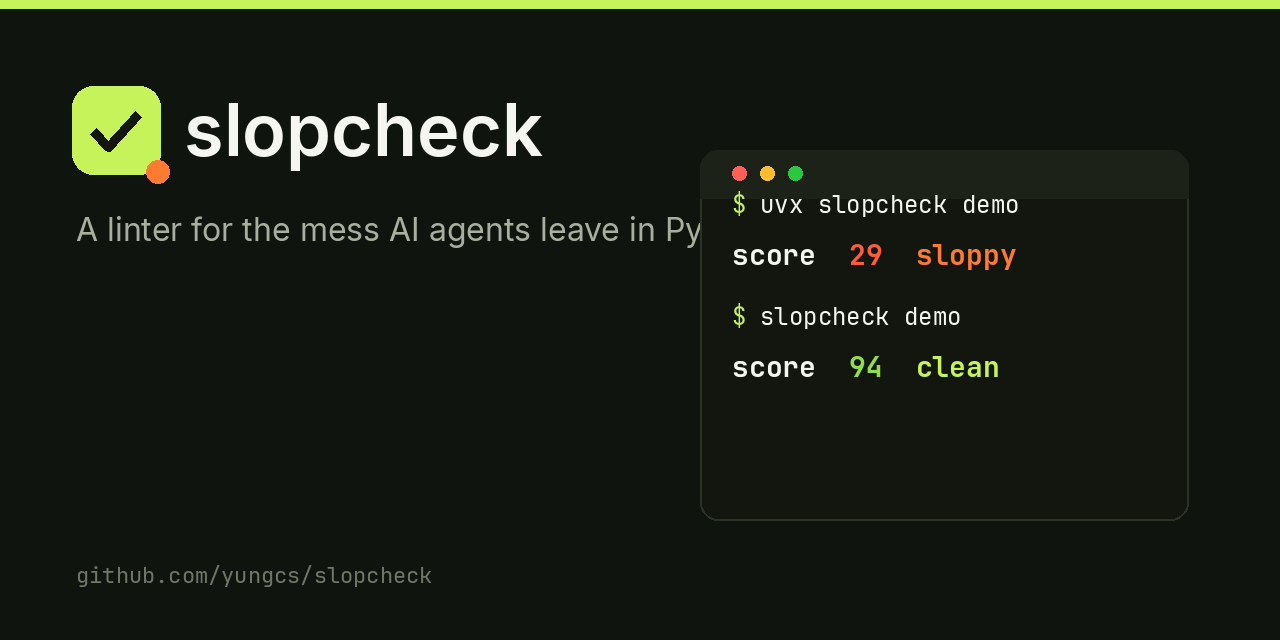
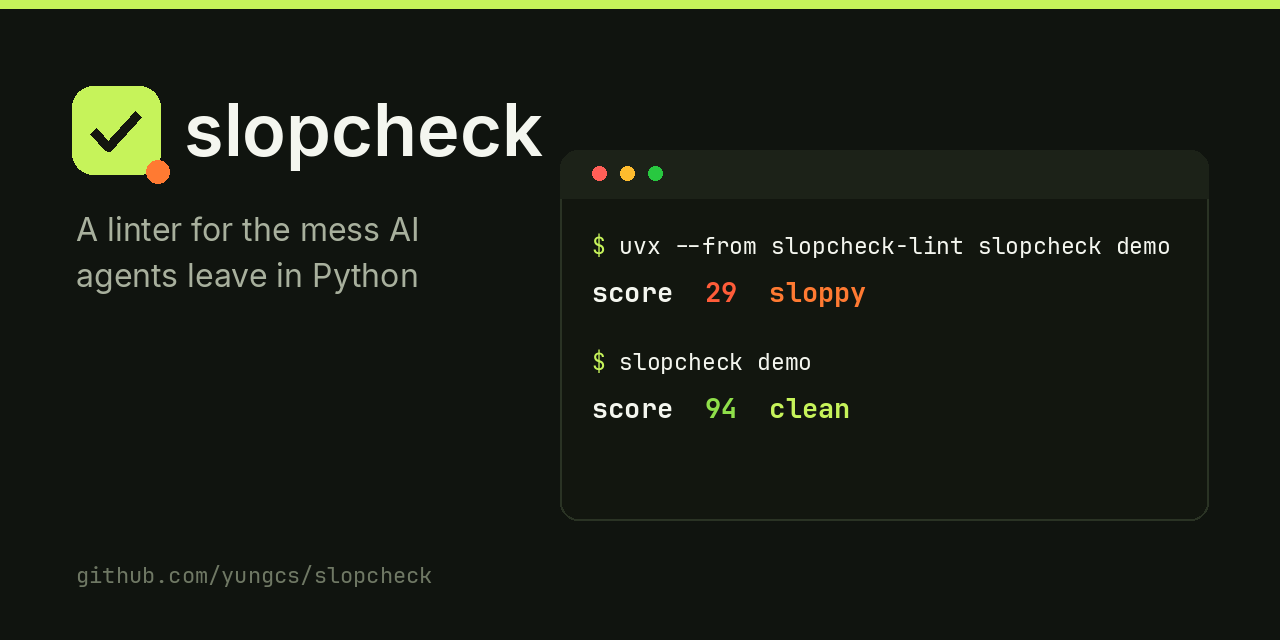
Show the slopcheck-lint install command in the launch visuals
The GIF and the social card now run `uvx --from slopcheck-lint
slopcheck demo`, which is what installs this project from PyPI.

- GIF: mono 26 on the same 840x720 canvas so the longer command fits on
  one line; wrap long rows at word boundaries instead of mid-word; type
  long commands two characters per frame to keep the loop near 11 s
- Social card: widen the terminal card, size its font to fit the
  command, keep rows clear of the title bar, and wrap the tagline so it
  no longer runs under the card
- README alt text matches the GIF

diff --git a/scripts/render_launch.py b/scripts/render_launch.py
@@ -29,6 +29,7 @@ SANS_MED = Path("/usr/share/fonts/truetype/macos/Inter-Medium.ttf")
 SANS_SEMI = Path("/usr/share/fonts/truetype/macos/Inter-SemiBold.ttf")
 TAGLINE = "A linter for the mess AI agents leave in Python"
 REPO = "github.com/yungcs/slopcheck"
+RUN_DEMO = "uvx --from slopcheck-lint slopcheck demo"
 
 INK = "#14160f"
 PAPER = "#f3f0e6"
@@ -119,31 +120,52 @@ def hero(path: Path, *, dark: bool) -> None:
     image.save(path, "PNG", optimize=True)
 
 
+def _wrap_words(draw: ImageDraw.ImageDraw, text: str, face: ImageFont.FreeTypeFont, limit: int) -> list[str]:
+    lines: list[str] = []
+    current = ""
+    for word in text.split():
+        candidate = f"{current} {word}".strip()
+        if current and text_width(draw, candidate, face) > limit:
+            lines.append(current)
+            current = word
+        else:
+            current = candidate
+    if current:
+        lines.append(current)
+    return lines
+
+
 def social(path: Path) -> None:
     image = Image.new("RGB", (1280, 640), NIGHT)
     draw = ImageDraw.Draw(image)
     draw.rectangle((0, 0, 1280, 8), fill=LIME)
     draw_mark(draw, (72, 86), 88, plate=LIME, tick=INK)
     draw.text((184, 86), "slopcheck", font=font(SANS_SEMI, 72), fill="#f4f6ef")
-    draw.text((76, 210), TAGLINE, font=font(SANS, 32), fill=MUTED_DARK)
+    left, right, top, bottom = 560, 1208, 150, 520
+    tagline = font(SANS, 32)
+    for index, line in enumerate(_wrap_words(draw, TAGLINE, tagline, left - 76 - 40)):
+        draw.text((76, 210 + index * 46), line, font=tagline, fill=MUTED_DARK)
     draw.text((76, 560), REPO, font=font(MONO, 22), fill="#6f7864")
-    card = (700, 150, 1188, 520)
-    draw.rounded_rectangle(card, radius=18, fill=TERM, outline="#2a3324", width=2)
-    draw.rounded_rectangle((700, 150, 1188, 198), radius=18, fill=TERM_BAR)
-    draw.rectangle((700, 180, 1188, 198), fill=TERM_BAR)
+    draw.rounded_rectangle((left, top, right, bottom), radius=18, fill=TERM, outline="#2a3324", width=2)
+    draw.rounded_rectangle((left, top, right, top + 48), radius=18, fill=TERM_BAR)
+    draw.rectangle((left, top + 30, right, top + 48), fill=TERM_BAR)
     for index, color in enumerate(("#ff5f57", "#febc2e", "#28c840")):
-        cx = 732 + index * 28
-        draw.ellipse((cx, 166, cx + 14, 180), fill=color)
-    body = font(MONO, 24)
-    bold = font(MONO_BOLD, 28)
+        cx = left + 32 + index * 28
+        draw.ellipse((cx, top + 16, cx + 14, top + 30), fill=color)
+    inset = 32
+    size = 24
+    while size > 16 and font(MONO, size).getlength(f"$ {RUN_DEMO}") > right - left - 2 * inset:
+        size -= 1
+    body = font(MONO, size)
+    bold = font(MONO_BOLD, size + 4)
     rows = [
-        (188, [("$ ", LIME), ("uvx slopcheck demo", "#f4f6ef")]),
-        (236, [("score  ", "#f4f6ef"), ("29", RED), ("  sloppy", EMBER)]),
-        (300, [("$ ", LIME), ("slopcheck demo", "#f4f6ef")]),
-        (348, [("score  ", "#f4f6ef"), ("94", GREEN), ("  clean", LIME)]),
+        (top + 80, [("$ ", LIME), (RUN_DEMO, "#f4f6ef")]),
+        (top + 124, [("score  ", "#f4f6ef"), ("29", RED), ("  sloppy", EMBER)]),
+        (top + 196, [("$ ", LIME), ("slopcheck demo", "#f4f6ef")]),
+        (top + 240, [("score  ", "#f4f6ef"), ("94", GREEN), ("  clean", LIME)]),
     ]
     for y, spans in rows:
-        x = 732
+        x = left + inset
         face = bold if any(part in {"29", "94"} for part, _color in spans) else body
         for part, color in spans:
             draw.text((x, y), part, font=face, fill=color)
@@ -391,7 +413,7 @@ def _dirty_rows(report: object) -> list[Row]:
             picked.append(item)
             seen.add(item.rule_id)
     rows: list[Row] = [
-        [("$ ", LIME), ("uvx slopcheck demo", "#f4f6ef")],
+        [("$ ", LIME), (RUN_DEMO, "#f4f6ef")],
         _plain(f"slopcheck  {report.version}", "#f4f6ef"),
         _plain(_header(report)[1], MUTED_DARK),
         *_score_rows(report),
@@ -435,24 +457,36 @@ def _wrap(row: Row, face: ImageFont.FreeTypeFont, limit: int) -> list[Row]:
             flat.append((char, color))
     if not flat:
         return [row]
-    lines: list[Row] = []
-    current: Row = []
+    pieces: list[list[tuple[str, str]]] = []
+    current: list[tuple[str, str]] = []
     width = 0
     for char, color in flat:
         advance = math.ceil(face.getlength(char))
         if width + advance > limit and current:
-            lines.append(current)
-            current = []
-            width = 0
-            if char == " ":
+            spaces = [index for index, (value, _color) in enumerate(current) if value == " "]
+            cut = spaces[-1] if spaces and any(v != " " for v, _c in current[: spaces[-1]]) else None
+            if cut is not None and char != " ":
+                pieces.append(current[:cut])
+                current = current[cut + 1 :]
+            else:
+                pieces.append(current)
+                current = []
+            width = sum(math.ceil(face.getlength(value)) for value, _color in current)
+            if char == " " and not current:
                 continue
-        if current and current[-1][1] == color:
-            current[-1] = (current[-1][0] + char, color)
-        else:
-            current.append((char, color))
+        current.append((char, color))
         width += advance
     if current:
-        lines.append(current)
+        pieces.append(current)
+    lines: list[Row] = []
+    for piece in pieces:
+        line: Row = []
+        for char, color in piece:
+            if line and line[-1][1] == color:
+                line[-1] = (line[-1][0] + char, color)
+            else:
+                line.append((char, color))
+        lines.append(line)
     return lines or [[]]
 
 
@@ -478,7 +512,7 @@ def _frame(
     title_face = font(SANS_MED, 18)
     draw.text(((width - text_width(draw, title, title_face)) // 2, 16), title, font=title_face, fill=MUTED_DARK)
     y = 78
-    limit = width - 112
+    limit = width - 56
     for row in rows:
         face = bold if any(part.strip() in {"29", "94"} for part, _color in row) else body
         wrapped = _wrap(row, face, limit)
@@ -495,7 +529,9 @@ def _frame(
 
 def _type_rows(command: str) -> list[list[Row]]:
     frames: list[list[Row]] = []
-    for count in range(1, len(command) + 1):
+    step = 2 if len(command) > 24 else 1
+    for count in range(step, len(command) + step, step):
+        count = min(count, len(command))
         frames.append([[("$ ", LIME), (command[:count], "#f4f6ef"), ("█", LIME)]])
     frames.append([[("$ ", LIME), (command, "#f4f6ef")]])
     return frames
@@ -511,12 +547,12 @@ def _reveal(base: list[Row]) -> list[list[Row]]:
 
 
 def gif(path: Path, dirty: object, clean: object) -> None:
-    body = font(MONO, 30)
-    bold = font(MONO_BOLD, 42)
+    body = font(MONO, 26)
+    bold = font(MONO_BOLD, 38)
     width, height = 840, 720
-    body_step, score_step = 44, 58
+    body_step, score_step = 40, 54
     frames: list[Image.Image] = []
-    typed = [_type_rows("uvx slopcheck demo"), _type_rows("slopcheck prompt demo"), _type_rows("slopcheck demo")]
+    typed = [_type_rows(RUN_DEMO), _type_rows("slopcheck prompt demo"), _type_rows("slopcheck demo")]
     reveals = [
         _reveal(_dirty_rows(dirty)),
         _reveal(_prompt_rows(dirty)),

diff --git a/README.zh-CN.md b/README.zh-CN.md
@@ -18,7 +18,7 @@
 <p align="center"><strong>一条命令。分数 0 到 100。越高越干净。</strong></p>
 
 <p align="center">
-  <img src="docs/demo.gif" alt="slopcheck demo 得到 29 分，接着是修复提示，修完后得到 94 分" width="720">
+  <img src="docs/demo.gif" alt="uvx --from slopcheck-lint slopcheck demo 得到 29 分，接着是修复提示，修完后得到 94 分" width="720">
 </p>
 
 给 AI 编程代理留在 Python 里的污泥做体检。Ruff 和 Pylint 不抓这些：裸 `except`、`import requets`、旁边还留着原函数的 `_v2`、请求路径上忘删的 `breakpoint()`。slopcheck 标出这些残留，并把发现交给 Claude Code、Codex 或 Cursor。

diff --git a/README.md b/README.md
@@ -18,7 +18,7 @@
 <p align="center"><strong>One command. A score from 0 to 100. Higher is cleaner.</strong></p>
 
 <p align="center">
-  <img src="docs/demo.gif" alt="slopcheck demo scores 29, slopcheck prompt, then a fixed tree scores 94" width="720">
+  <img src="docs/demo.gif" alt="uvx --from slopcheck-lint slopcheck demo scores 29, slopcheck prompt, then a fixed tree scores 94" width="720">
 </p>
 
 Ruff and Pylint will not catch this. Agents still ship it: a bare `except`, `import requets`, a `_v2` twin, a `breakpoint()` left in the fetch path. slopcheck flags that residue and hands the findings to Claude Code, Codex, or Cursor.
